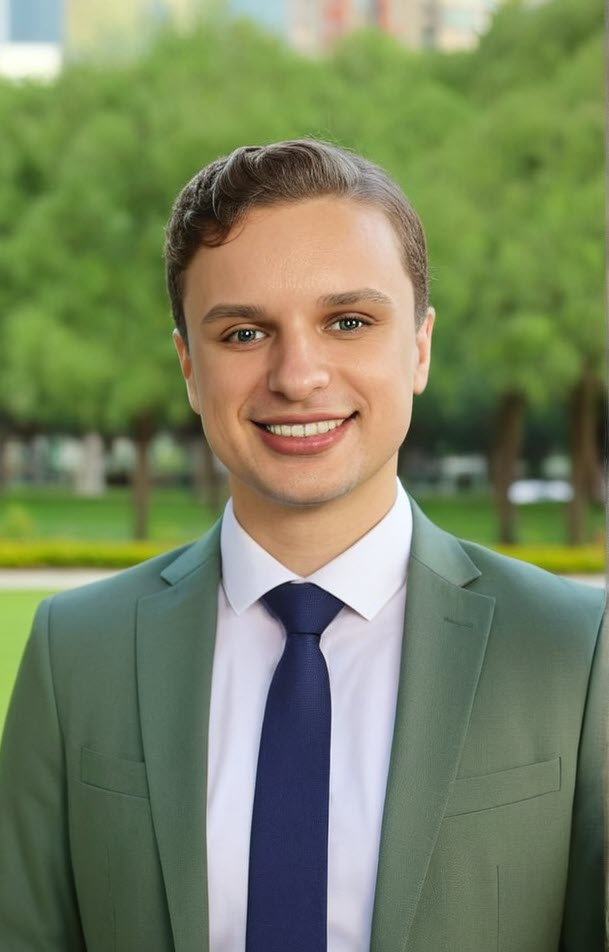
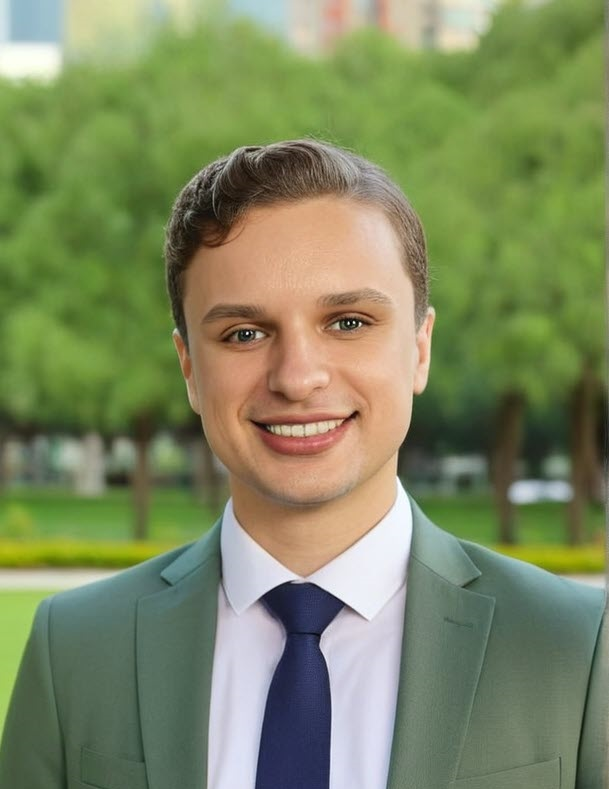
Update about.html

diff --git a/about.html b/about.html
@@ -93,8 +93,8 @@
       <div class="container" data-aos="fade-up" data-aos-delay="100">
 
         <div class="row gy-4 justify-content-center">
-          <div class="col-lg-4">
-            <img src="assets/img/profile-img.jpg" class="img-fluid" alt="">
+          <div class="col-lg-4 d-flex justify-content-center">
+            <img src="assets/img/profile-img.jpg" class="img-fluid" alt="" width="300px">
           </div>
           <div class="col-lg-8 content">
             <h2>Generative AI | Full-Stack Developer</h2>
@@ -111,7 +111,7 @@
               </div>
               <div class="col-lg-6">
                 <ul>
-                  <li><i class="bi bi-chevron-right"></i> <strong>Degree:</strong> <span>Master</span></li>
+                  <li><i class="bi bi-chevron-right"></i> <strong>Degree:</strong> <span>Master of computer science</span></li>
                   <li><i class="bi bi-chevron-right"></i> <strong>Email:</strong> <span>andrii.chekarov@outlook.com</span></li>
                   <li><i class="bi bi-chevron-right"></i> <strong>Freelance:</strong> <span>Available</span></li>
                 </ul>
@@ -205,7 +205,7 @@
             <div class="progress">
               <span class="skill"><span>Retrieval Augmented Generation</span> <i class="val">85%</i></span>
               <div class="progress-bar-wrap">
-                <div class="progress-bar" role="progressbar" aria-valuenow="90" aria-valuemin="0" aria-valuemax="100"></div>
+                <div class="progress-bar" role="progressbar" aria-valuenow="85" aria-valuemin="0" aria-valuemax="100"></div>
               </div>
             </div><!-- End Skills Item -->
 
@@ -257,85 +257,57 @@
 
           <div class="col-lg-3 col-md-4" data-aos="fade-up" data-aos-delay="100">
             <div class="features-item">
-              <i class="bi bi-eye" style="color: #ffbb2c;"></i>
-              <h3><a href="" class="stretched-link">Lorem Ipsum</a></h3>
+              <i class="bi bi-computer" style="color: #ffbb2c;"></i>
+              <h3><a href="" class="stretched-link">Coding for Fun</a></h3>
             </div>
           </div><!-- End Feature Item -->
 
           <div class="col-lg-3 col-md-4" data-aos="fade-up" data-aos-delay="200">
             <div class="features-item">
-              <i class="bi bi-infinity" style="color: #5578ff;"></i>
-              <h3><a href="" class="stretched-link">Dolor Sitema</a></h3>
+              <i class="bi bi-blog" style="color: #5578ff;"></i>
+              <h3><a href="" class="stretched-link">Tech Blogging</a></h3>
             </div>
           </div><!-- End Feature Item -->
 
           <div class="col-lg-3 col-md-4" data-aos="fade-up" data-aos-delay="300">
             <div class="features-item">
-              <i class="bi bi-mortarboard" style="color: #e80368;"></i>
-              <h3><a href="" class="stretched-link">Sed perspiciatis</a></h3>
+              <i class="bi bi-book" style="color: #e80368;"></i>
+              <h3><a href="" class="stretched-link">Reading Tech Books</a></h3>
             </div>
           </div><!-- End Feature Item -->
 
           <div class="col-lg-3 col-md-4" data-aos="fade-up" data-aos-delay="400">
             <div class="features-item">
-              <i class="bi bi-nut" style="color: #e361ff;"></i>
-              <h3><a href="" class="stretched-link">Magni Dolores</a></h3>
+              <i class="bi bi-camera-video" style="color: #e361ff;"></i>
+              <h3><a href="" class="stretched-link">Photography</a></h3>
             </div>
           </div><!-- End Feature Item -->
 
           <div class="col-lg-3 col-md-4" data-aos="fade-up" data-aos-delay="500">
             <div class="features-item">
-              <i class="bi bi-shuffle" style="color: #47aeff;"></i>
-              <h3><a href="" class="stretched-link">Nemo Enim</a></h3>
+              <i class="bi bi-music" style="color: #47aeff;"></i>
+              <h3><a href="" class="stretched-link">Music</a></h3>
             </div>
           </div><!-- End Feature Item -->
 
           <div class="col-lg-3 col-md-4" data-aos="fade-up" data-aos-delay="600">
             <div class="features-item">
-              <i class="bi bi-star" style="color: #ffa76e;"></i>
-              <h3><a href="" class="stretched-link">Eiusmod Tempor</a></h3>
+              <i class="bi bi-puzzle" style="color: #ffa76e;"></i>
+              <h3><a href="" class="stretched-link">Puzzle Solving</a></h3>
             </div>
           </div><!-- End Feature Item -->
 
           <div class="col-lg-3 col-md-4" data-aos="fade-up" data-aos-delay="700">
             <div class="features-item">
-              <i class="bi bi-x-diamond" style="color: #11dbcf;"></i>
-              <h3><a href="" class="stretched-link">Midela Teren</a></h3>
+              <i class="bi bi-travel" style="color: #11dbcf;"></i>
+              <h3><a href="" class="stretched-link">Traveling</a></h3>
             </div>
           </div><!-- End Feature Item -->
 
           <div class="col-lg-3 col-md-4" data-aos="fade-up" data-aos-delay="800">
             <div class="features-item">
-              <i class="bi bi-camera-video" style="color: #4233ff;"></i>
-              <h3><a href="" class="stretched-link">Pira Neve</a></h3>
-            </div>
-          </div><!-- End Feature Item -->
-
-          <div class="col-lg-3 col-md-4" data-aos="fade-up" data-aos-delay="900">
-            <div class="features-item">
-              <i class="bi bi-command" style="color: #b2904f;"></i>
-              <h3><a href="" class="stretched-link">Dirada Pack</a></h3>
-            </div>
-          </div><!-- End Feature Item -->
-
-          <div class="col-lg-3 col-md-4" data-aos="fade-up" data-aos-delay="1000">
-            <div class="features-item">
-              <i class="bi bi-dribbble" style="color: #b20969;"></i>
-              <h3><a href="" class="stretched-link">Moton Ideal</a></h3>
-            </div>
-          </div><!-- End Feature Item -->
-
-          <div class="col-lg-3 col-md-4" data-aos="fade-up" data-aos-delay="1100">
-            <div class="features-item">
-              <i class="bi bi-activity" style="color: #ff5828;"></i>
-              <h3><a href="" class="stretched-link">Verdo Park</a></h3>
-            </div>
-          </div><!-- End Feature Item -->
-
-          <div class="col-lg-3 col-md-4" data-aos="fade-up" data-aos-delay="1200">
-            <div class="features-item">
-              <i class="bi bi-brightness-high" style="color: #29cc61;"></i>
-              <h3><a href="" class="stretched-link">Flavor Nivelanda</a></h3>
+              <i class="bi bi-muscle" style="color: #4233ff;"></i>
+              <h3><a href="" class="stretched-link">Exercise</a></h3>
             </div>
           </div><!-- End Feature Item -->
 
@@ -344,118 +316,6 @@
       </div>
 
     </section><!-- /Interests Section -->
-
-    <!-- Testimonials Section -->
-    <section id="testimonials" class="testimonials section">
-
-      <!-- Section Title -->
-      <div class="container section-title" data-aos="fade-up">
-        <h2>Testimonials</h2>
-        <div><span>Check my</span> <span class="description-title">Testimonials</span></div>
-      </div><!-- End Section Title -->
-
-      <div class="container" data-aos="fade-up" data-aos-delay="100">
-
-        <div class="swiper init-swiper" data-speed="600" data-delay="5000">
-          <script type="application/json" class="swiper-config">
-            {
-              "loop": true,
-              "speed": 600,
-              "autoplay": {
-                "delay": 5000
-              },
-              "slidesPerView": "auto",
-              "pagination": {
-                "el": ".swiper-pagination",
-                "type": "bullets",
-                "clickable": true
-              },
-              "breakpoints": {
-                "320": {
-                  "slidesPerView": 1,
-                  "spaceBetween": 40
-                },
-                "1200": {
-                  "slidesPerView": 3,
-                  "spaceBetween": 20
-                }
-              }
-            }
-          </script>
-          <div class="swiper-wrapper">
-
-            <div class="swiper-slide">
-              <div class="testimonial-item" "="">
-            <p>
-              <i class=" bi bi-quote quote-icon-left"></i>
-                <span>Proin iaculis purus consequat sem cure digni ssim donec porttitora entum suscipit rhoncus. Accusantium quam, ultricies eget id, aliquam eget nibh et. Maecen aliquam, risus at semper.</span>
-                <i class="bi bi-quote quote-icon-right"></i>
-                </p>
-                <img src="assets/img/testimonials/testimonials-1.jpg" class="testimonial-img" alt="">
-                <h3>Saul Goodman</h3>
-                <h4>Ceo &amp; Founder</h4>
-              </div>
-            </div><!-- End testimonial item -->
-
-            <div class="swiper-slide">
-              <div class="testimonial-item">
-                <p>
-                  <i class="bi bi-quote quote-icon-left"></i>
-                  <span>Export tempor illum tamen malis malis eram quae irure esse labore quem cillum quid malis quorum velit fore eram velit sunt aliqua noster fugiat irure amet legam anim culpa.</span>
-                  <i class="bi bi-quote quote-icon-right"></i>
-                </p>
-                <img src="assets/img/testimonials/testimonials-2.jpg" class="testimonial-img" alt="">
-                <h3>Sara Wilsson</h3>
-                <h4>Designer</h4>
-              </div>
-            </div><!-- End testimonial item -->
-
-            <div class="swiper-slide">
-              <div class="testimonial-item">
-                <p>
-                  <i class="bi bi-quote quote-icon-left"></i>
-                  <span>Enim nisi quem export duis labore cillum quae magna enim sint quorum nulla quem veniam duis minim tempor labore quem eram duis noster aute amet eram fore quis sint minim.</span>
-                  <i class="bi bi-quote quote-icon-right"></i>
-                </p>
-                <img src="assets/img/testimonials/testimonials-3.jpg" class="testimonial-img" alt="">
-                <h3>Jena Karlis</h3>
-                <h4>Store Owner</h4>
-              </div>
-            </div><!-- End testimonial item -->
-
-            <div class="swiper-slide">
-              <div class="testimonial-item">
-                <p>
-                  <i class="bi bi-quote quote-icon-left"></i>
-                  <span>Fugiat enim eram quae cillum dolore dolor amet nulla culpa multos export minim fugiat dolor enim duis veniam ipsum anim magna sunt elit fore quem dolore labore illum veniam.</span>
-                  <i class="bi bi-quote quote-icon-right"></i>
-                </p>
-                <img src="assets/img/testimonials/testimonials-4.jpg" class="testimonial-img" alt="">
-                <h3>Matt Brandon</h3>
-                <h4>Freelancer</h4>
-              </div>
-            </div><!-- End testimonial item -->
-
-            <div class="swiper-slide">
-              <div class="testimonial-item">
-                <p>
-                  <i class="bi bi-quote quote-icon-left"></i>
-                  <span>Quis quorum aliqua sint quem legam fore sunt eram irure aliqua veniam tempor noster veniam sunt culpa nulla illum cillum fugiat legam esse veniam culpa fore nisi cillum quid.</span>
-                  <i class="bi bi-quote quote-icon-right"></i>
-                </p>
-                <img src="assets/img/testimonials/testimonials-5.jpg" class="testimonial-img" alt="">
-                <h3>John Larson</h3>
-                <h4>Entrepreneur</h4>
-              </div>
-            </div><!-- End testimonial item -->
-
-          </div>
-          <div class="swiper-pagination"></div>
-        </div>
-
-      </div>
-
-    </section><!-- /Testimonials Section -->
 
   </main>
 
